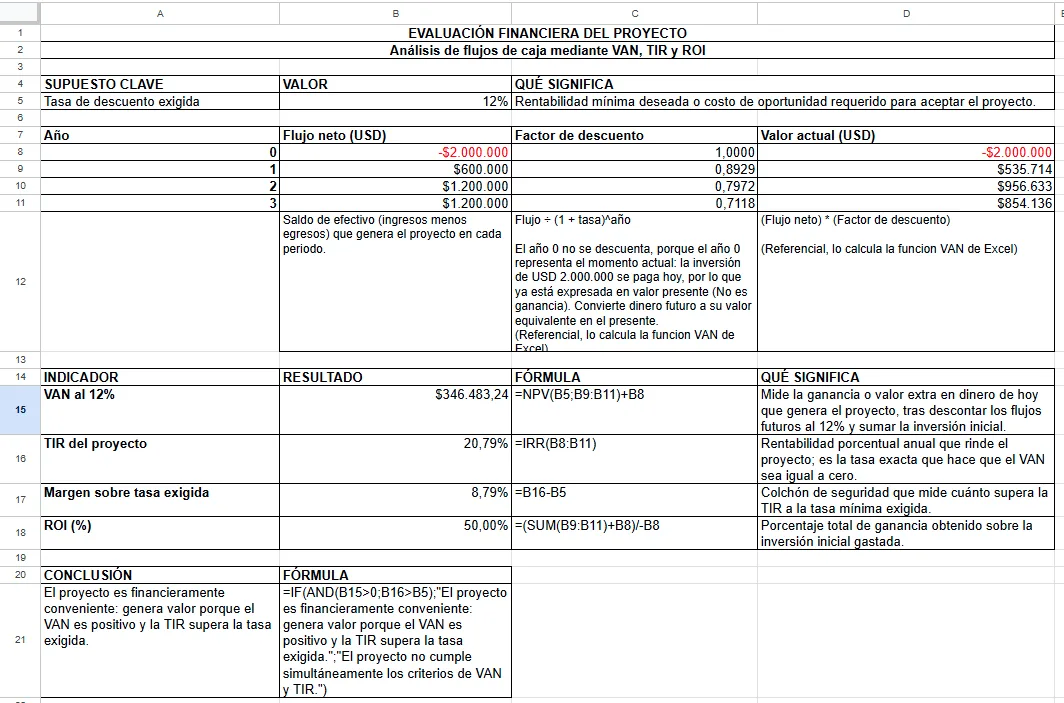
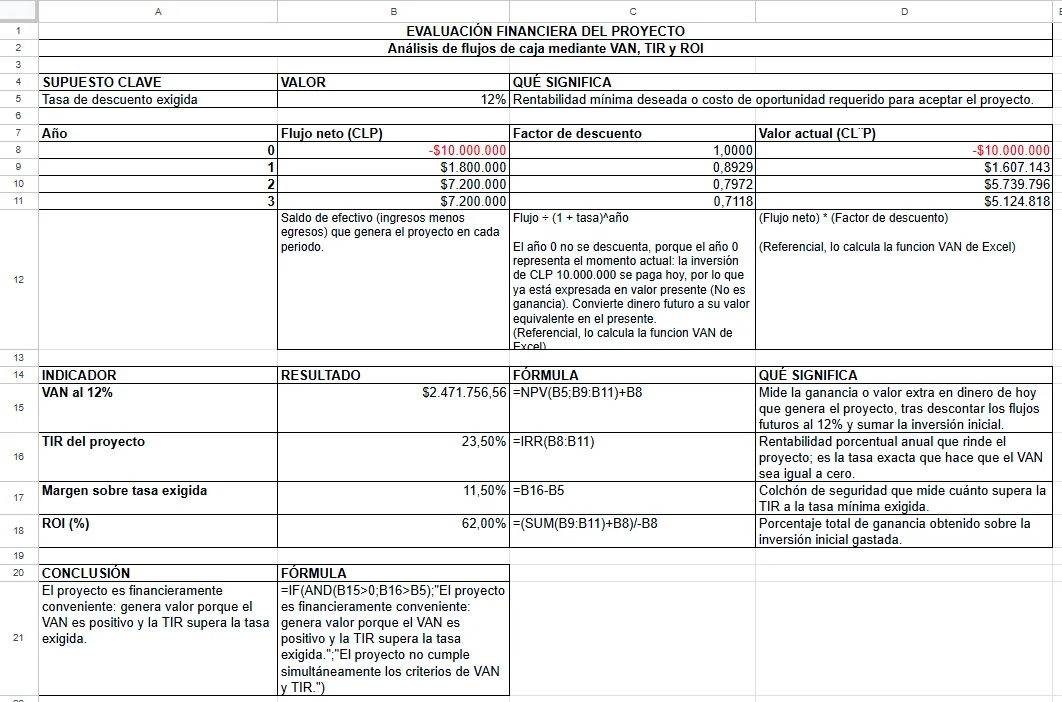
fix(blog): restate financial case in CLP with referential values
Replaces the USD case scaled for a US operation with a 36,000-contact case at CLP 2,000 per contact. VAN CLP 2.471.757, TIR 23.5% and ROI 62% over three years. Adds why the year 1 flow is lower than years 2 and 3. Updates both spreadsheet screenshots.

Changed region(s): [[0.0, 0.0, 1.0, 1.0], [0.0, 0.3889, 0.0311, 0.4188]]

diff --git a/src/content/blog/evaluar-iniciativas-ia-generativa-impacto-medible.md b/src/content/blog/evaluar-iniciativas-ia-generativa-impacto-medible.md
@@ -108,47 +108,49 @@ Y estas son las cinco cosas que hay que medir antes de tocar nada:
 | **Riesgo**   | Exposición de datos, trazabilidad y necesidad de revisión manual (nivel, eventos)                    | Registros de incidentes          |
 
 
-### El caso de los 1,2M de contactos
+### El caso de 36 mil contactos
 
-Usemos números para que se entienda mejor (o eso espero). Una operación con 1,2 millones de contactos al año y un costo de USD 10 por contacto (salario, infraestructura, tecnología y supervisión incluidos) gasta USD 12M al año.
+Usemos números para que se entienda mejor (o eso espero). Pensemos en una operación de soporte con cuatro ejecutivos, cada uno atendiendo unas 750 consultas al mes. Son **36.000 contactos al año**, a un costo completo de **CLP 2.000 por contacto** (sueldo, leyes sociales, supervisión, herramientas, oficina y tiempo muerto). Eso da **CLP 72 millones al año** solo en atender contactos. Son valores referenciales, los tuyos van a variar.
 
-Con esa línea base puedes proyectar algo concreto: si el 15% de esos contactos se resuelve en autoservicio, son **USD 1,8M de ahorro bruto al año, antes de los costos de operar la IA**.
+Con esa línea base puedes proyectar algo concreto: si el 15% de esos contactos se resuelve en autoservicio, son 5.400 contactos menos y **CLP 10,8 millones de ahorro bruto al año, antes de los costos de operar la IA**.
 
-Sin la línea base, ese 1,8M es una opinión, pero con la línea base, es un dato.
+Sin la línea base, esos 10,8 millones son una opinión, pero con la línea base, son un dato.
 
 ### Mi aporte: VAN, TIR y ROI con los números del chatbot
 
 Si el proyecto pasa por un comité de inversión, decir "esto ahorra" no basta. Te van a pedir dos cosas: el **VAN** (Valor Actual Neto, el valor de hoy de los flujos futuros menos la inversión) y la **TIR** (Tasa Interna de Retorno, la rentabilidad anual equivalente).
 
-Sigo con el mismo caso, que en la práctica es un chatbot de autoservicio, y con estos supuestos, que son ilustrativos:
+Sigo con el mismo caso, que en la práctica es un chatbot de autoservicio, y con estos supuestos referenciales:
 
-- **Inversión inicial:** USD 2.000.000 (integración con CRM, arquitectura RAG, licencias, desarrollo y gestión del cambio).
-- **Ahorro bruto:** USD 1.800.000 al año, cuando el 15% de autoservicio funciona completo.
-- **Costos de operación:** USD 600.000 al año (tokens, infraestructura, supervisión y mantenimiento). Flujo neto: **USD 1.200.000**.
-- **Año 1 a la mitad:** USD 600.000, porque la adopción no llega al 15% el primer día.
+- **Inversión inicial:** CLP 10 millones (integración con el CRM o WhatsApp, arquitectura RAG, licencias, desarrollo y capacitación del equipo).
+- **Ahorro bruto:** CLP 10,8 millones al año, cuando el 15% de autoservicio funciona completo.
+- **Costos de operación:** CLP 3,6 millones al año (tokens, infraestructura y la fracción de tiempo que alguien dedica a supervisarlo y mantenerlo). Flujo neto: **CLP 7,2 millones**.
+- **Año 1 a la mitad:** CLP 1,8 millones, porque la adopción no llega al 15% el primer día.
 - **Horizonte:** 3 años, con un costo de capital del 12%.
 
 
-| Año     | Flujo neto     | Valor actual al 12% |
-| ------- | -------------- | ------------------- |
-| 0       | −USD 2.000.000 | −USD 2.000.000      |
-| 1       | USD 600.000    | USD 535.714         |
-| 2       | USD 1.200.000  | USD 956.633         |
-| 3       | USD 1.200.000  | USD 854.136         |
-| **VAN** |                | **USD 346.483**     |
+| Año     | Flujo neto (CLP) | Valor actual al 12% |
+| ------- | ---------------- | ------------------- |
+| 0       | −10.000.000      | −10.000.000         |
+| 1       | 1.800.000        | 1.607.143           |
+| 2       | 7.200.000        | 5.739.796           |
+| 3       | 7.200.000        | 5.124.818           |
+| **VAN** |                  | **2.471.757**       |
 
 
-El VAN es positivo, así que el proyecto genera valor por sobre lo que exige el costo de capital. La TIR, que es la tasa que deja el VAN en cero, da **cerca de 20,8%**: casi 9 puntos porcentuales por sobre el 12% exigido.
+Ojo con el salto del año 1 al año 2: el flujo no se duplica porque el costo de operación no baja con la adopción. Los tokens suben un poco con el volumen, pero la infraestructura, las licencias y la supervisión son un costo fijo que se paga completo desde el día uno.
+
+El VAN es positivo: unos **CLP 2,5 millones** a valor de hoy, así que el proyecto genera valor por sobre lo que exige el costo de capital, pero con poco margen. La TIR, que es la tasa que deja el VAN en cero, da **23,5%**, unos 11,5 puntos porcentuales por sobre el 12% exigido. Y el ROI, que es la ganancia total del periodo sobre lo invertido y no una tasa anual, llega a **62%** en los tres años.
 
 Hay dos cosas que cambian el resultado y que te conviene tener claras antes de que te las pregunten:
 
-- **Los costos de operación importan.** Si te olvidas de los USD 600.000 de tokens, infraestructura y supervisión, el flujo sube a USD 1,8M y el proyecto se ve mucho mejor de lo que es. Es la regla 4 de la lista en acción.
-- **La curva de adopción también.** Si asumes el 100% del beneficio desde el año 1, inflas el VAN. Y si con un escenario pesimista (autoservicio al 10%, tokens más caros) el VAN se vuelve negativo, el piloto tiene que validar justamente ese supuesto.
+- **Los costos de operación importan.** Si te olvidas de los CLP 3,6 millones de tokens, infraestructura y supervisión, el flujo sube a CLP 10,8 millones y el proyecto se ve mucho mejor de lo que es. Es la regla 4 de la lista en acción.
+- **La curva de adopción también.** Si asumes el 100% del beneficio desde el año 1, inflas el VAN. Y si el autoservicio se queda en 10% con los mismos costos de operación, el VAN cae a −CLP 4,6 millones y la TIR se vuelve negativa. Por eso el piloto tiene que validar justamente ese supuesto.
 
-Si quieres replicarlo, pon la inversión en B8 y los flujos de los años 1 a 3 en B9:B11 (600000, 1200000, 1200000). Para el VAN aplica `VNA` con la tasa del 12% sobre B9:B11 y súmale B8, y para la tasa usa `TIR` sobre B8:B11 (en inglés, `NPV` e `IRR`). Así queda la planilla, en las dos versiones:
+Si quieres replicarlo, pon la inversión en B8 (−10000000) y los flujos de los años 1 a 3 en B9:B11 (1800000, 7200000, 7200000). Para el VAN aplica `VNA` con la tasa del 12% sobre B9:B11 y súmale B8, y para la tasa usa `TIR` sobre B8:B11 (en inglés, `NPV` e `IRR`). Así queda la planilla, en las dos versiones:
 
 <figure>
-  <img src="/blog/img/blog-evaluar-ia-generativa-van-tir-excel.webp" alt="Planilla en Excel: flujo neto descontado al 12%, VAN de USD 346.483, TIR de 20,79%, margen de 8,79% sobre la tasa exigida y ROI de 50%">
+  <img src="/blog/img/blog-evaluar-ia-generativa-van-tir-excel.webp" alt="Planilla en Excel: flujo neto descontado al 12%, VAN de CLP 2.471.757, TIR de 23,5%, margen de 11,5 puntos sobre la tasa exigida y ROI de 62%">
   <figcaption>Elaboración propia en Excel, con los supuestos de este caso.</figcaption>
 </figure>
 
@@ -156,8 +158,6 @@ Si quieres replicarlo, pon la inversión en B8 y los flujos de los años 1 a 3 e
   <img src="/blog/img/blog-evaluar-ia-generativa-van-tir-sheets.webp" alt="La misma planilla en Google Sheets, con las fórmulas NPV, IRR y SUM en lugar de VNA, TIR y SUMA">
   <figcaption>La misma planilla en Google Sheets. Ahí las funciones se llaman "NPV", "IRR" y "SUM".</figcaption>
 </figure>
-
-El **ROI** (Retorno de la Inversión) es la ganancia total del periodo sobre lo invertido, no una tasa anual. Acá da 50% en tres años, que no es lo mismo que el 20% anual de la TIR.
 
 ## Priorizar es saber decir "no"
 
@@ -285,7 +285,7 @@ El VAN es un monto: los flujos futuros traídos al valor de hoy, menos la invers
 
 ### ¿Cuánto tiene que dar el ROI para aprobar un proyecto?
 
-No hay un número universal. La referencia es la tasa de descuento, que es el costo de capital o la rentabilidad mínima que exige la empresa. Si la TIR la supera y el VAN es positivo, el proyecto crea valor. Muchas organizaciones piden además un margen extra por el riesgo. En el ejemplo del chatbot, 20,8% contra 12% deja casi 9 puntos porcentuales de holgura.
+No hay un número universal. La referencia es la tasa de descuento, que es el costo de capital o la rentabilidad mínima que exige la empresa. Si la TIR la supera y el VAN es positivo, el proyecto crea valor. Muchas organizaciones piden además un margen extra por el riesgo. En el ejemplo del chatbot, 23,5% contra 12% deja 11,5 puntos porcentuales de holgura.
 
 ### ¿Qué hago si no tengo línea base?
 
